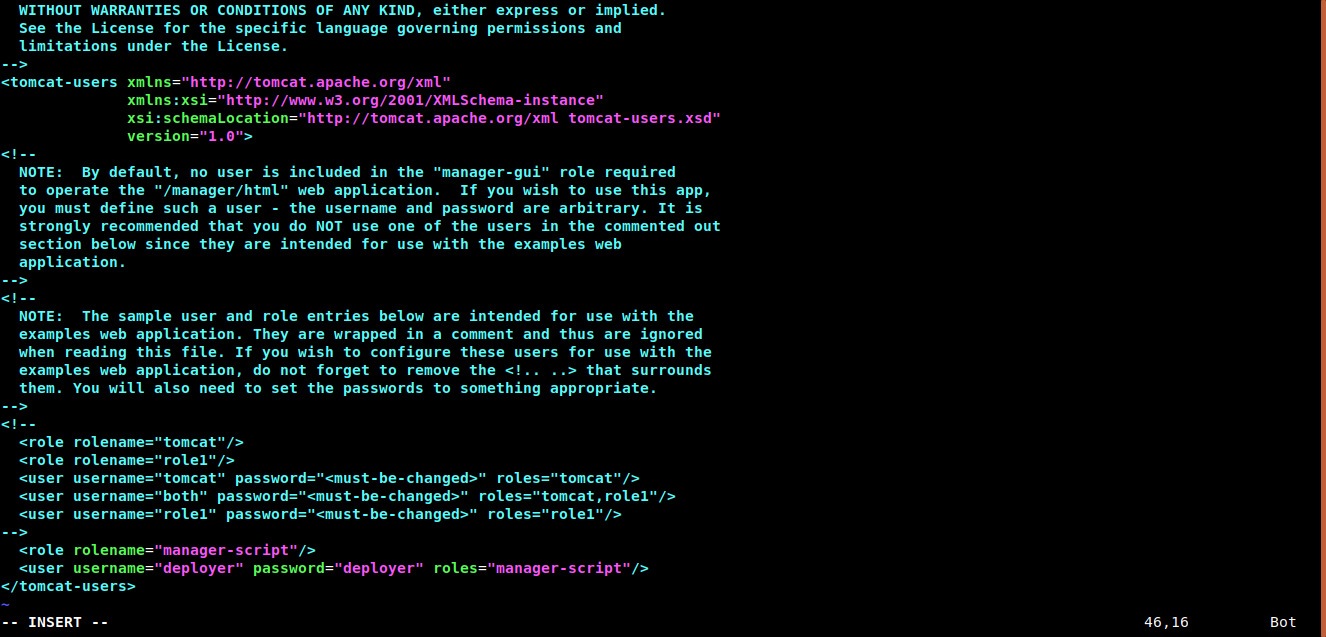
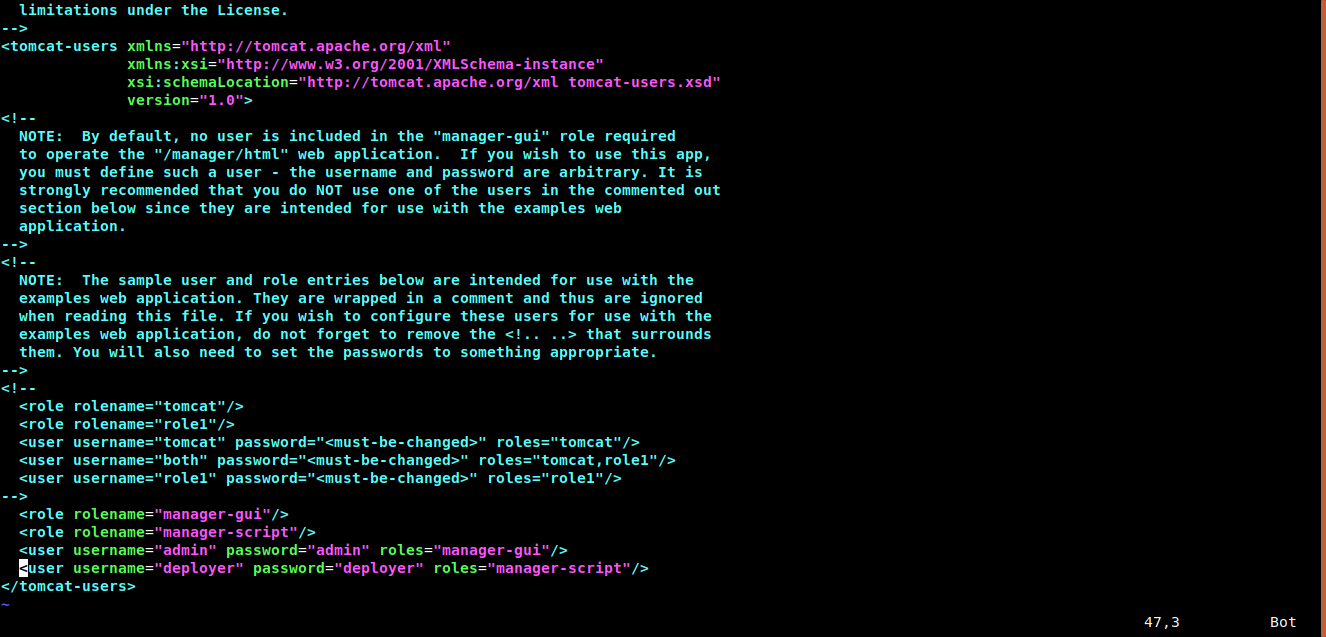
updated tomcat

Changed region(s): [[0.0, 0.0, 0.5566, 0.8948], [0.0, 0.9545, 0.0618, 0.9843], [0.8658, 0.9545, 0.8967, 0.9843]]

diff --git a/content/tomcat/tutorials/how-to-deploy-java-application-to-tomcat-using-maven.md b/content/tomcat/tutorials/how-to-deploy-java-application-to-tomcat-using-maven.md
@@ -13,16 +13,20 @@ sudo vi /var/lib/tomcat9/conf/tomcat-users.xml
 
 Go to end of the file and paste the following lines inside tomcat-users block and save it.
 
-Here we have defined one role **manager-script** and created user **deployer** and assigned the role to the deployer user.
+Here we have defined two roles **manager-gui** **manager-script** and created two user **admin** **deployer** and assigned the **manager-gui** role to admin user and **manager-script** role to deployer user.
 
-The **manager-script** role will not give access to Tomcat manager web application GUI, it will give access to deploy the application using scripts.
+Using admin user we will be able to access the manager web application GUI and using deployer user we will be able to deploy the war file to tomcat using maven command.
+
+`Note:` The **manager-script** role will not give access to Tomcat manager web application GUI, it will give access to deploy the application using scripts.
 
 ```
+  <role rolename="manager-gui"/>
   <role rolename="manager-script"/>
+  <user username="admin" password="admin" roles="manager-gui"/>
   <user username="deployer" password="deployer" roles="manager-script"/>
 ```
 
-![tomcat](/content/tomcat/tutorials/images/manually-deploy-app/tomcat-user-script.png)
+![tomcat](/content/tomcat/tutorials/images/deploy-app-maven/tomcat-user-script.png)
 
 Then restart the tomcat9
 ```
@@ -35,57 +39,95 @@ I have a sample hello-world maven project in github [hello-world](https://github
 
 To download and compile this code we need two tools to be installed in our system **git** and **maven**
 
-If you are using **Ubuntu** machine, you can easily install git and maven using following commands.
+If you are using **Ubuntu** system, you can easily install git and maven using following commands.
 ```
 sudo apt install -y git maven
 ```
 
-![tomcat](/content/tomcat/tutorials/images/manually-deploy-app/tomcat-install-git-maven.png)
+![tomcat](/content/tomcat/tutorials/images/deploy-app-maven/tomcat-install-git-maven.png)
 
 Now we can clone the **hello-world** project from Github
 ```
-git clone https://github.com/vigneshsweekaran/hello-world.git
+git clone -b maven-deploy-to-tomcat https://github.com/vigneshsweekaran/hello-world.git
 ```
 
-![tomcat](/content/tomcat/tutorials/images/manually-deploy-app/tomcat-git-clone.png)
+![tomcat](/content/tomcat/tutorials/images/deploy-app-maven/tomcat-git-clone.png)
+
+Before compiling the code, we have to do some configuration in maven to deploy the hello-world.war to tomcat.
+
+We are going to use `cargo` maven plugin to deploy the war file to tomcat.
+
+After installing the maven, `.m2` directory will be created in home folder. If your server username is **ubuntu** then the home folder is **/home/ubuntu**
+
+Create `settings.xml` file in `/home/ubuntu/.m2` folder.
+
+![tomcat](/content/tomcat/tutorials/images/deploy-app-maven/tomcat-setting-xml-location.png)
+
+Paste the following content in `settings.xml`
+
+```
+<settings>
+  <servers>
+    <server>
+      <id>tomcat-server</id>
+      <configuration>
+        <cargo.tomcat.manager.url>http://152.70.71.239:8080/manager/text</cargo.tomcat.manager.url>
+        <cargo.remote.username>deployer</cargo.remote.username>
+        <cargo.remote.password>deployer</cargo.remote.password>
+      </configuration>
+    </server>
+  </servers>
+</settings>
+```
+![tomcat](/content/tomcat/tutorials/images/deploy-app-maven/tomcat-settings-xml.png)
+
+**settings.xml** file is used to save some useful or secret data and these data can be fetched into pom.xml by refering the id.
+
+Here we have stored the tomcat url, username and password, which are needed by cargo maven plugin to deploy the hello-world-war to tomcat.
+
+And i have already added the `cargo` maven plugin details to the pom.xml. While executing `mvn clean install` maven will download the cargo plugin from maven repository.
+
+While creating the `settings.xml` we have created a id `<id>tomcat-server</id>` for the tomcat details. This id we have to refer in cargo maven plugin definition in pom.xml file to fetch the tomcat details.
+
+![tomcat](/content/tomcat/tutorials/images/deploy-app-maven/tomcat-cargo-plugin-pom.png)
 
 Go inside hello-world folder
 ```
 cd hello-world
 ```
 
-Now we run the maven commands to compile the Java code and package it to .war file extension.
+Now we can run the maven command to compile the Java code and package it to .war file extension.
 ```
-mvn clean package
+mvn clean install
 ```
 
-![tomcat](/content/tomcat/tutorials/images/manually-deploy-app/tomcat-mvn-clean-package.png)
+![tomcat](/content/tomcat/tutorials/images/deploy-app-maven/tomcat-mvn-clean-install.png)
 
 After compilation, the **hello-world.war** file is generated in **target** folder
 
-![tomcat](/content/tomcat/tutorials/images/manually-deploy-app/tomcat-target-folder.png)
+![tomcat](/content/tomcat/tutorials/images/deploy-app-maven/tomcat-target-folder.png)
 
-Now we have our artifact **hello-world.war** in **/home/ubuntu/hello-world/target** folder
+Now we can run the `mvn cargo:deploy` command to deploy the hello-world.war file to tomcat
+```
+mvn cargo:deploy
+```
+![tomcat](/content/tomcat/tutorials/images/deploy-app-maven/tomcat-mvn-cargo-deploy.png)
 
-Lets deploy the **hello-world.war** to tomact using Manager GUI
+While executing `mvn cargo:deploy` command, maven will fetch the tomcat details from settings.xml and deploy to tomcat
 
-Goto Tomcat manager GUI --> **Deploy directory or WAR file located on server** section
+Now, we can verify the deployment by visiting the http://your-ip-address:8080/hello-world
 
-Since we have our **hello-world.war** file in the same server. We will use this option.
+![tomcat](/content/tomcat/tutorials/images/deploy-app-maven/tomcat-hello-world-page.png)
 
-Enter **/hello-world** in the **Context Path:** feild and war file absolute path /home/ubuntu/hello-world/target/hello-world.war in **WAR or Directory path:** feild
+To undeploy the hello-world.war file from tomcat
+```
+mvn cargo:undeploy
+```
 
-![tomcat](/content/tomcat/tutorials/images/manually-deploy-app/tomcat-deploy-war-gui.png)
+![tomcat](/content/tomcat/tutorials/images/deploy-app-maven/tomcat-maven-cargo-undeploy.png)
 
-Now we can verify the deployment by checking the list in **Applications** section.
 
-![tomcat](/content/tomcat/tutorials/images/manually-deploy-app/tomcat-deployed-gui.png)
-
-Now we can access the deployed application from browser by http://your-ip-address:8080/hello-world
-
-![tomcat](/content/tomcat/tutorials/images/manually-deploy-app/tomcat-hello-world-context.png)
-
-Hurray! we have succesfully deployed the java web application manually to Tomcat 9 using Manager GUI
+Hurray!! we have succesfully deployed and undeployed the java web application to Tomcat 9 using Maven
 
 ### Previous Topic
 * [How to manually deploy the java application to Tomcat 9 webserver](/content/tomcat/tutorials/how-to-manually-deploy-java-application-to-tomcat)

diff --git a/content/tomcat/tutorials/how-to-manually-deploy-java-application-to-tomcat.md b/content/tomcat/tutorials/how-to-manually-deploy-java-application-to-tomcat.md
@@ -61,7 +61,7 @@ Go inside hello-world folder
 cd hello-world
 ```
 
-Now we run the maven commands to compile the Java code and package it to .war file extension.
+Now we can run the maven commands to compile the Java code and package it to .war file extension.
 ```
 mvn clean package
 ```
@@ -92,7 +92,7 @@ Now we can access the deployed application from browser by http://your-ip-addres
 
 ![tomcat](/content/tomcat/tutorials/images/manually-deploy-app/tomcat-hello-world-context.png)
 
-Hurray! we have succesfully deployed the java web application manually to Tomcat 9 using Manager GUI
+Hurray!! we have succesfully deployed the java web application manually to Tomcat 9 using Manager GUI
 
 ### Previous Topic
 * [How to install Tomcat](/content/tomcat/tutorials/installation)
